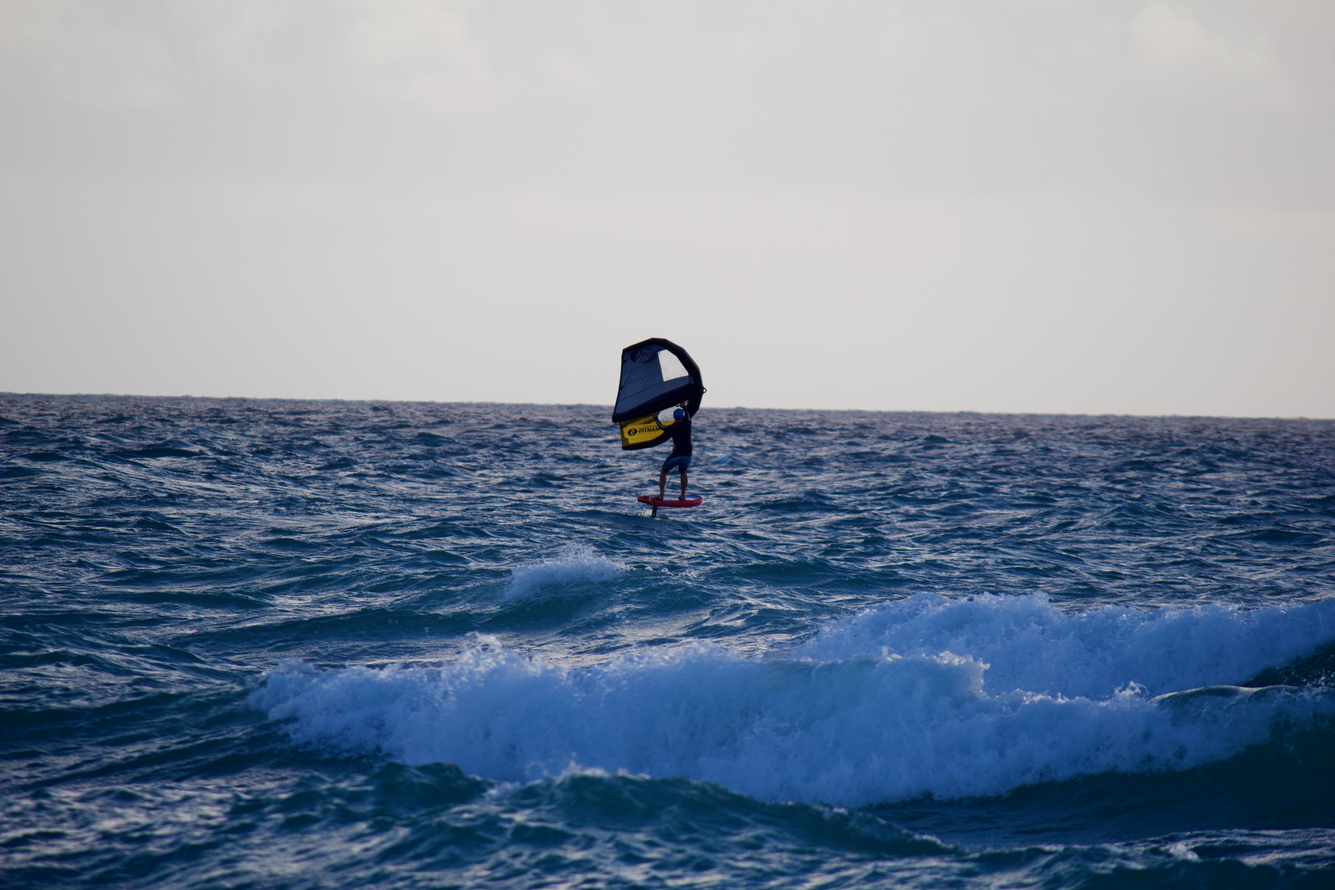
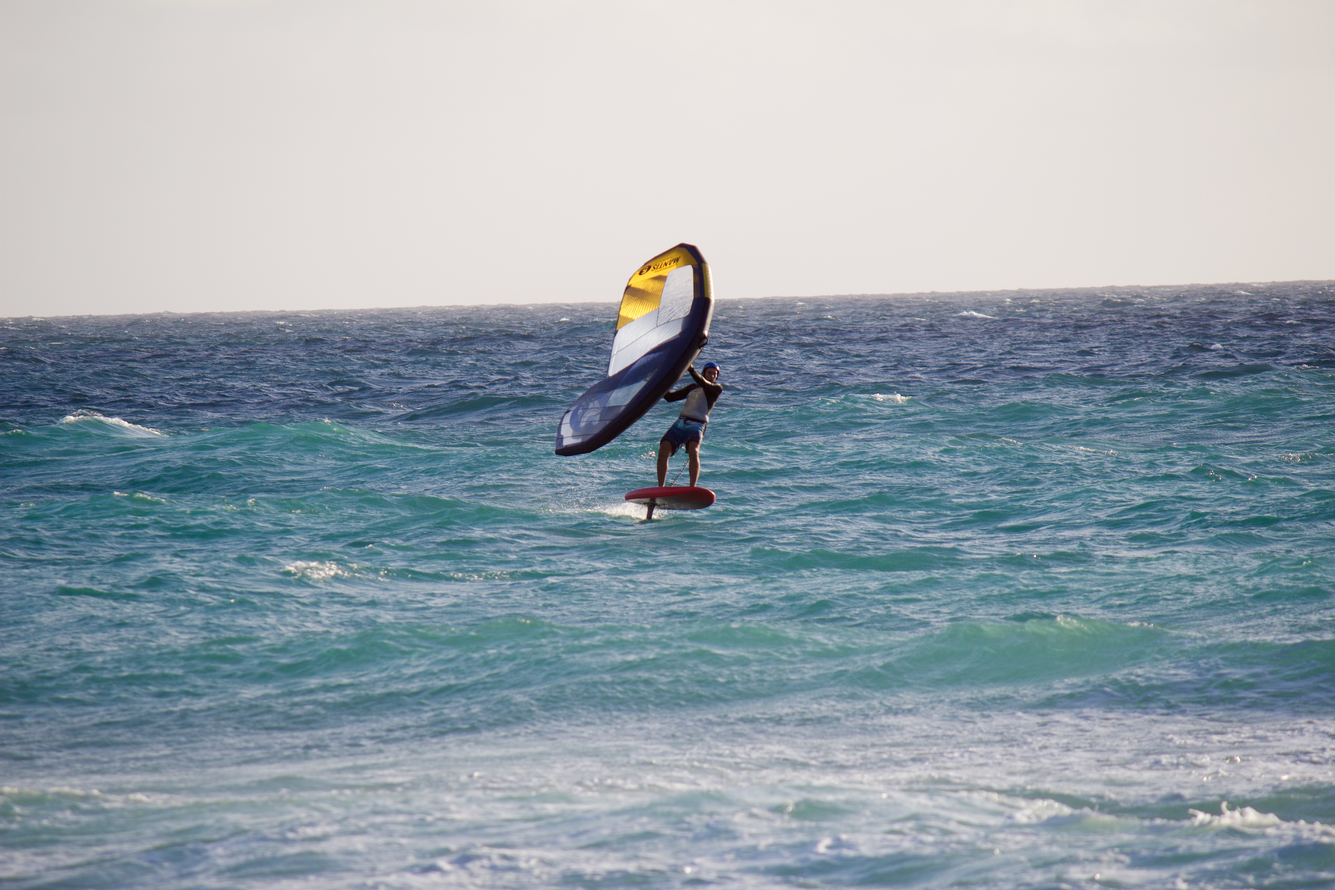
added a new windsurfer image because i thought it looked better. kept the old one too and renamed it to Windsrufer_Back. also deleted Man_Flying_Plane.jpeg because I didn't like it anymore. next

diff --git a/index.html b/index.html
@@ -46,6 +46,10 @@
 							<h2>Windsurfer</h2>
 						</article>
 						<article class="thumb">
+							<a href="images/small_sample_size/Windsurfer_Back.jpeg" class="image"><img src="images/small_sample_size_thumbs/Windsurfer_Back.jpeg" alt="Windsurfer_Back" /></a>
+							<h2>Windsurfer Back</h2>
+						</article>
+						<article class="thumb">
 							<a href="images/small_sample_size/Kissing_Spirit.jpeg" class="image"><img src="images/small_sample_size_thumbs/Kissing_Spirit.jpeg" alt="Spirit" /></a>
 							<h2>Spirit</h2>
 						</article>
@@ -56,10 +60,6 @@
 						<article class="thumb">
 							<a href="images/small_sample_size/RC_Heli_with_Pilot.jpeg" class="image"><img src="images/small_sample_size_thumbs/RC_Heli_with_Pilot.jpeg" alt="RC Heli with Pilot" /></a>
 							<h2>RC Heli with Pilot</h2>
-						</article>
-						<article class="thumb">
-							<a href="images/small_sample_size/Man_Flying_Plane.jpeg" class="image"><img src="images/small_sample_size_thumbs/Man_Flying_Plane.jpeg" alt="Man Flying Plane" /></a>
-							<h2>Man Flying Plane</h2>
 						</article>
 						<article class="thumb">
 							<a href="images/small_sample_size/Flower.jpeg" class="image"><img src="images/small_sample_size_thumbs/Flower.jpeg" alt="Flower" /></a>
